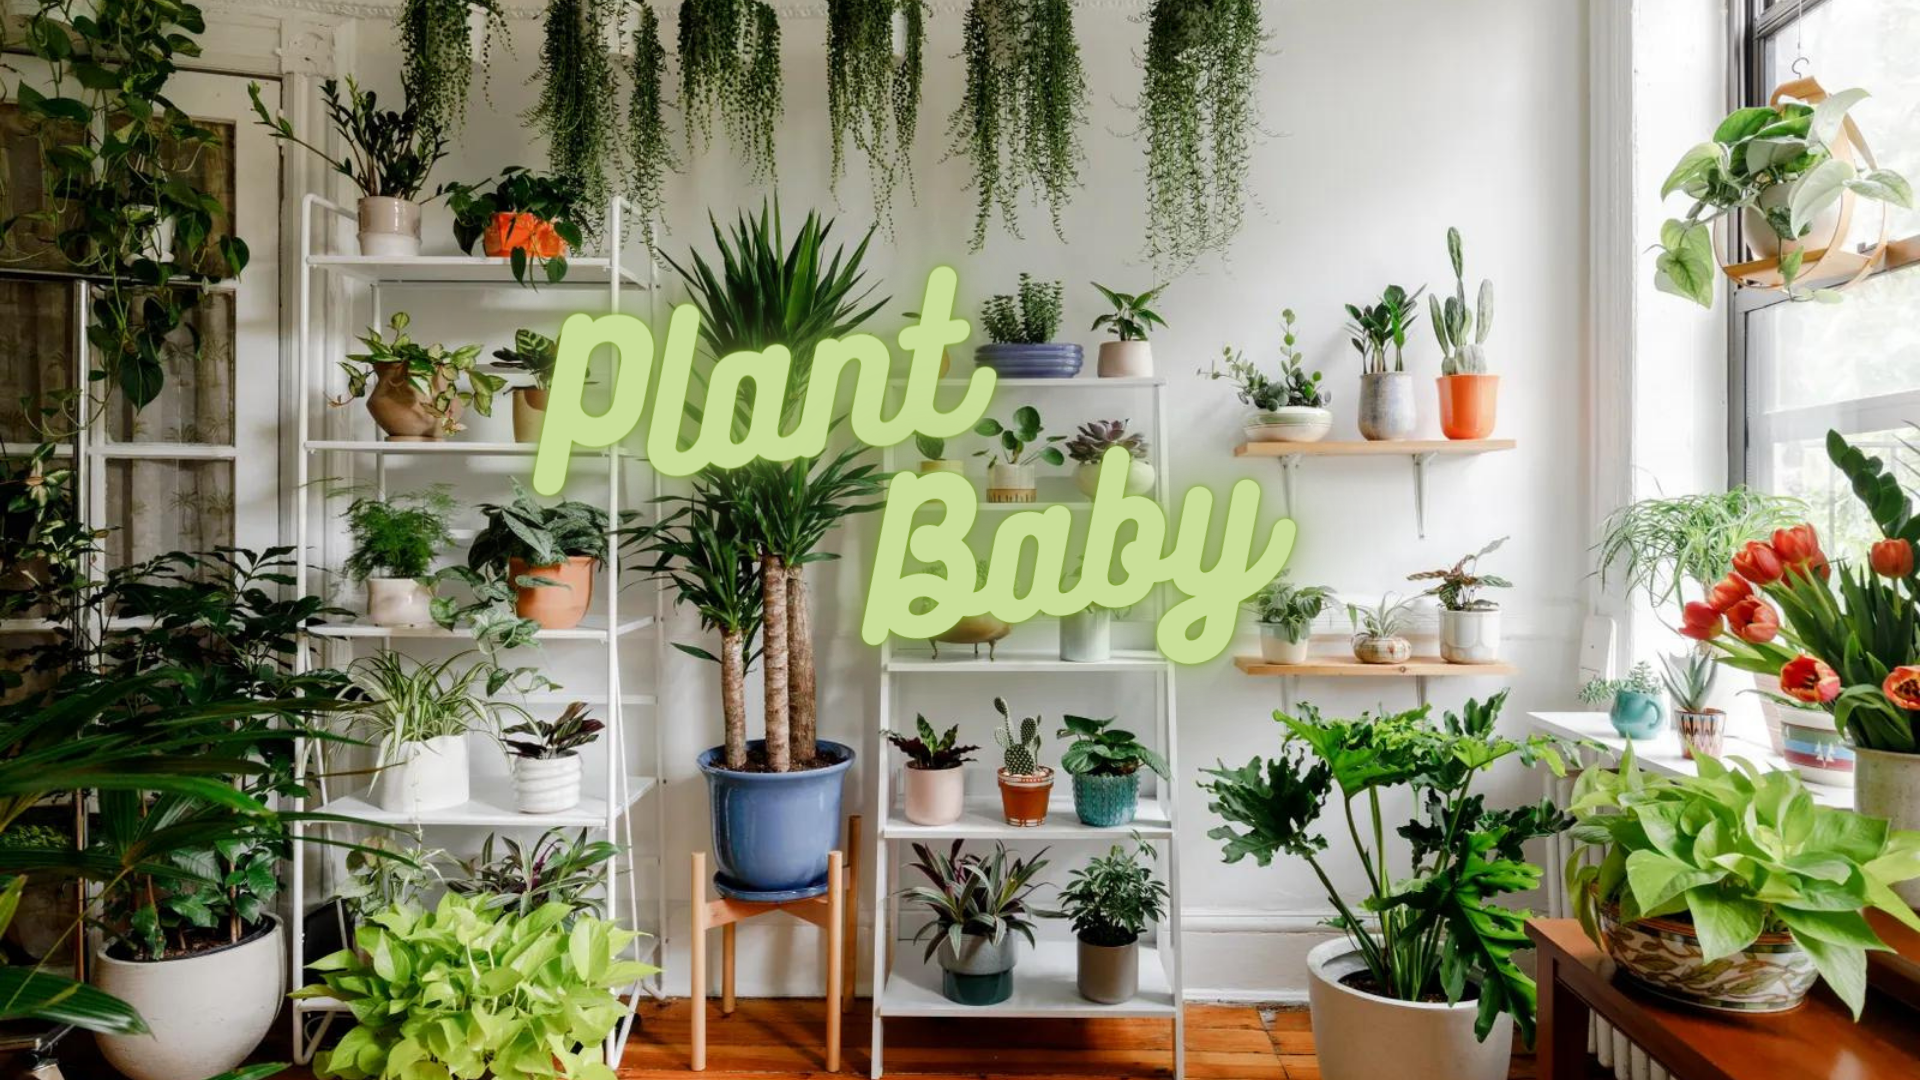
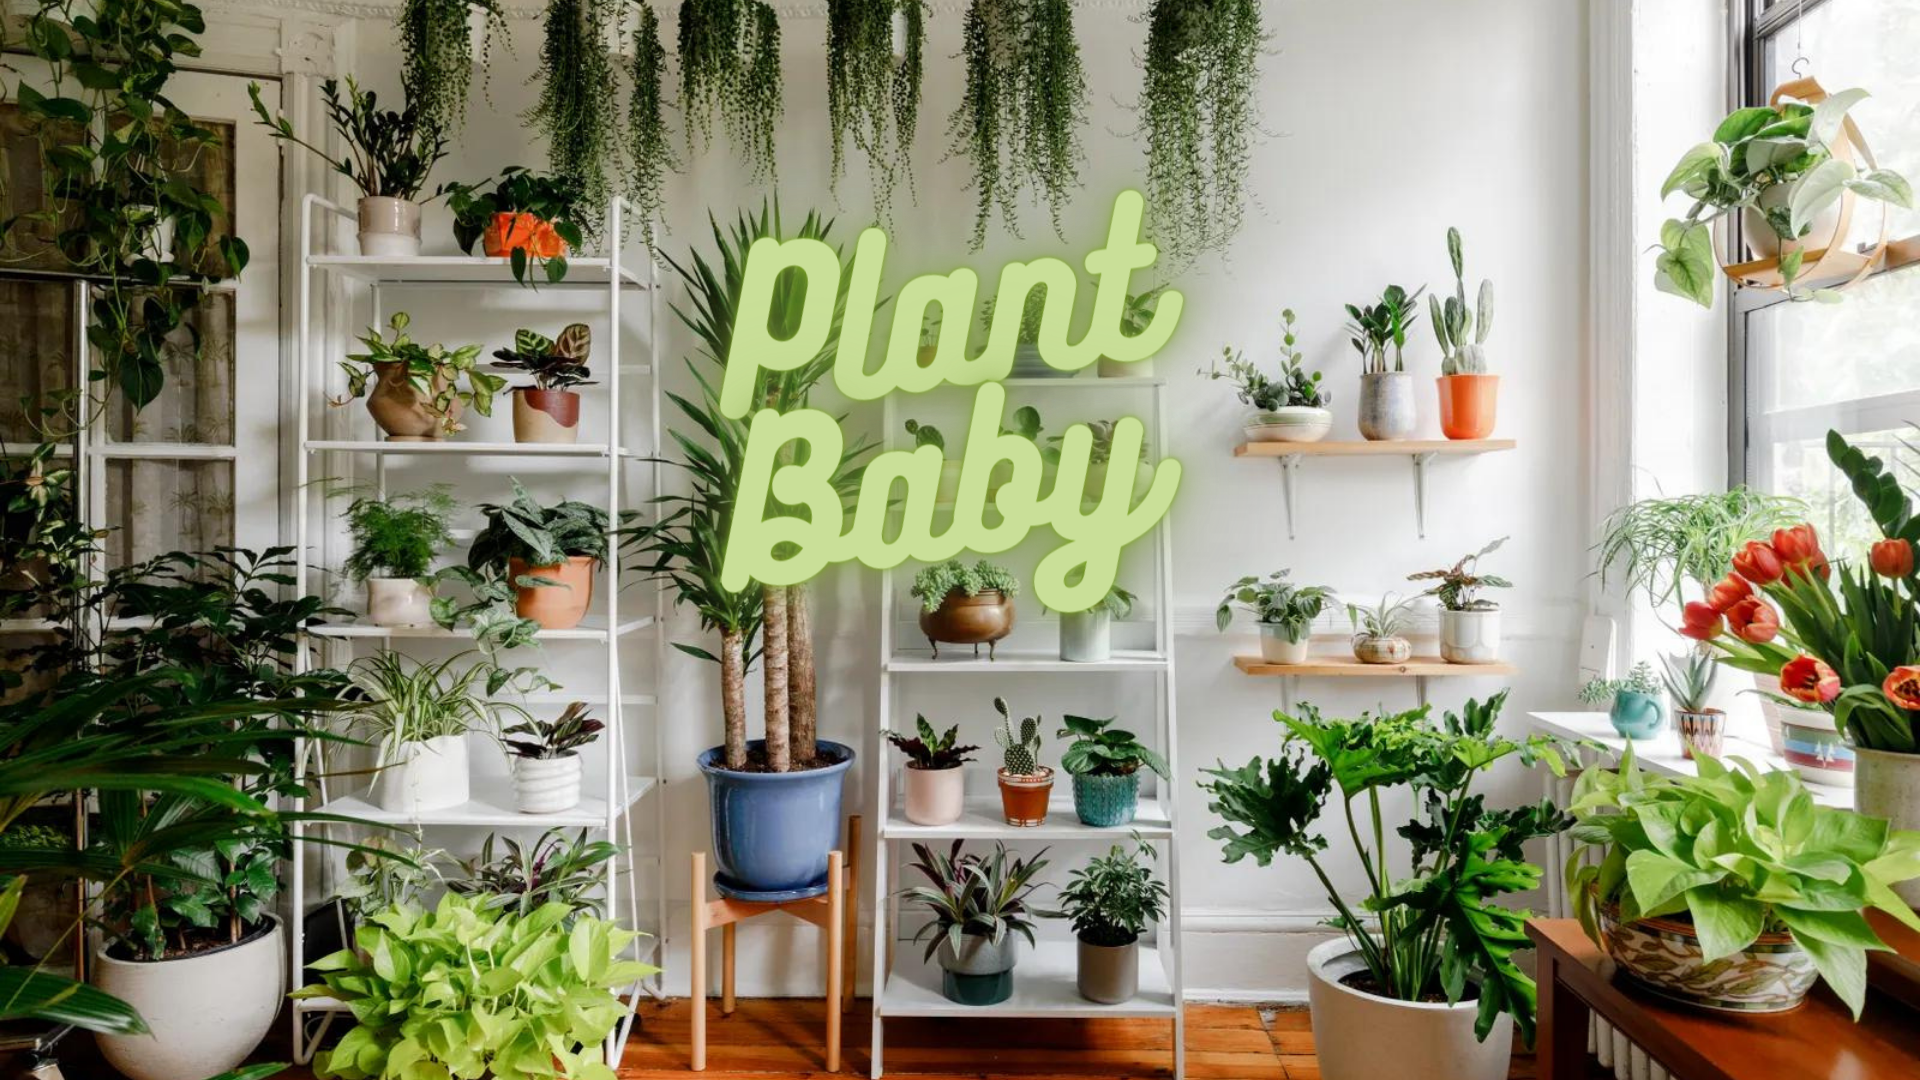
connected signup page to firebase auth

Changed region(s): [[0.25, 0.1528, 0.6875, 0.6417]]

diff --git a/src/scenes/Signup.js b/src/scenes/Signup.js
@@ -8,20 +8,46 @@ import {
   signInWithPopup,
 } from "firebase/auth";
 import { app } from "../ConnectAuth";
+import { BoyRounded } from "@mui/icons-material";
 
-export default function Signup({ setUser }) {
+export default function Signup({ user, setUser }) {
   const [email, setEmail] = useState("");
   const [password, setPasword] = useState("");
   const [firstName, setFirstName] = useState("");
   const [lastName, setLastName] = useState("");
+  const [favorites, setFavorites] = useState("");
   const navigate = useNavigate();
   const provider = new GoogleAuthProvider();
   const auth = getAuth(app);
+
+  function createUser(uid) {
+    const user = {
+      email: email.toLowerCase(),
+      firstName,
+      lastName,
+      uid,
+      favorites,
+    };
+    fetch("http://localhost:3000/users", {
+      method: "POST",
+      headers: {
+        "Content-Type": "application/json",
+      },
+      body: JSON.stringify(user),
+    })
+      .then((res) => res.json)
+      .then(() => {
+        setUser(user);
+      })
+      .catch(alert);
+  }
+
   const handleFormSubmit = (event) => {
     event.preventDefault();
     createUserWithEmailAndPassword(auth, email, password)
       .then((result) => {
         setUser(result.user);
+        createUser(result.user.uid);
         console.log(result.user);
         navigate("/dashboard");
       })
@@ -31,8 +57,9 @@ export default function Signup({ setUser }) {
     signInWithPopup(auth, provider)
       .then((result) => {
         setUser(result.user);
+        createUser(result.user.uid);
         console.log(result.user);
-        navigate("/");
+        navigate("/dashboard");
       })
       .catch(alert);
   };

diff --git a/src/App.js b/src/App.js
@@ -37,7 +37,10 @@ function App() {
             }
           />
           <Route path="/plants" element={<PlantList />} />
-          <Route path="/plants/:plantId" element={<PlantPage />} />
+          <Route
+            path="/plants/:plantId"
+            element={<PlantPage style={{ minHeight: "100vh" }} />}
+          />
         </Routes>
         <Footer />
       </PlantContext.Provider>

diff --git a/src/scenes/Hero.css b/src/scenes/Hero.css
@@ -8,12 +8,13 @@
 
 @media screen and (max-width: 1000px) {
   .hero-image {
-    background-size: 100vw;
+    background-image: url("../assets/PlantBabyHeroImg.png");
+    background-position: center;
     background-repeat: no-repeat;
   }
   .hero-button {
     top: 50%;
-    left: 50%;
+    left: 35%;
     font-weight: 700;
     background-color: #c9df98;
   }

diff --git a/src/scenes/Dashboard.js b/src/scenes/Dashboard.js
@@ -19,7 +19,7 @@ export default function Dashboard({ user }) {
   return (
     <>
       <h1>Welcome</h1>
-      <h2>{user.displayName || user.email}</h2>
+      <h2>Welcome, {user.firstName || user.email}!</h2>
       {user.photoURL && (
         <img src={user.photoURL} alt="Profile of logged-in user" />
       )}

diff --git a/src/scenes/PlantList.js b/src/scenes/PlantList.js
@@ -14,7 +14,7 @@ export default function PlantList() {
   }, []);
   return (
     <div style={{ marginTop: "8%" }}>
-      <h1>Plant List</h1>
+      <h1 style={{ paddingLeft: "2%" }}>Plant List</h1>
       <div className="plant-list">
         {!plantList ? (
           <h2>Loading...</h2>

diff --git a/src/App.css b/src/App.css
@@ -29,6 +29,7 @@
 
 .plant-page {
   display: flex;
+  margin-top: 5%;
 }
 
 .plant-list {
@@ -75,4 +76,7 @@ header {
 
 html {
   scroll-behavior: smooth;
+}
+
+.footer {
 }
